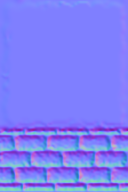
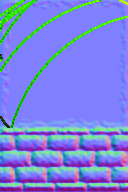
lightning prototype (using normal maps)

diff --git a/Classes/gamescene.cpp b/Classes/gamescene.cpp
@@ -102,6 +102,32 @@ GameScene::init()
     m_pDuelMode->Show(false);
     m_pGameHUD->addChild(m_pDuelMode);
     
+        // light
+    m_pLight = LightEffect::create();
+    m_pLight->retain();
+    m_pLight->setLightPos(m_pLocalPlayer->getPosition3D());
+    m_pLight->setAmbientLightColor(Color3B(25,25,25));
+    m_pLight->setLightCutoffRadius(200);
+    m_pLight->setLightHalfRadius(1.0);
+    m_pLight->setBrightness(5.0);
+    
+        // apply light to map
+    for(auto i = 0; i < m_oGameMap.GetMatrix().size(); ++i)
+    {
+        for(auto j = 0; j < m_oGameMap[i].size(); ++j)
+        {
+            auto& block = m_oGameMap[i][j];
+            if(block->GetType() == MapBlock::Type::WALL)
+            {
+                block->setEffect(m_pLight, "res/wall_1_n.png");
+            }
+            else if(block->GetType() == MapBlock::Type::NOBLOCK)
+            {
+                block->setEffect(m_pLight, "res/floor_n.png");
+            }
+        }
+    }
+    
     auto eventListener = EventListenerKeyboard::create();
     eventListener->onKeyPressed = [this](EventKeyboard::KeyCode keyCode, Event * event)
     {
@@ -352,6 +378,7 @@ GameScene::UpdateView(float delta)
                                  cur_pos.x,
                                  cur_pos.y,
                                  800));
+        m_pLight->setLightPos(m_pLocalPlayer->getPosition3D());
     }
     else if(m_pLocalPlayer->GetState() == Hero::State::SWAMP)
     {
@@ -440,7 +467,8 @@ GameScene::ApplyInputEvents()
             {
                 auto gs_spawn = static_cast<const GameEvent::SVSpawnMonster*>(gs_event->event());
                 
-                auto monster = Monster::create("res/monster.png");
+                auto monster = Monster::create("res/units/monster.png");
+                monster->setEffect(m_pLight, "res/units/monster_n.png");
                 monster->SetUID(gs_spawn->monster_uid());
                 
                 cocos2d::Vec2 log_coords(gs_spawn->x(),
@@ -461,6 +489,7 @@ GameScene::ApplyInputEvents()
                     case Item::Type::KEY:
                     {
                         auto key = Key::create("res/key.png");
+                        key->setEffect(m_pLight, "res/key_n.png");
                         key->SetUID(gs_spawn->item_uid());
                         key->SetCarrierID(0);
                         
@@ -482,6 +511,7 @@ GameScene::ApplyInputEvents()
                     case Item::Type::SWORD:
                     {
                         auto sword = Sword::create("res/sword.png");
+                        sword->setEffect(m_pLight, "res/sword_n.png");
                         sword->SetUID(gs_spawn->item_uid());
                         sword->SetCarrierID(0);
                         

diff --git a/Classes/pregamescene.cpp b/Classes/pregamescene.cpp
@@ -381,7 +381,7 @@ PreGameScene::update(float delta)
             {
                 if(player.eHeroPicked == Hero::Type::AIR_ELEMENTALIST)
                 {
-                    auto air = AirElementalist::create("res/player_down.png");
+                    auto air = AirElementalist::create("res/units/player_down.png");
                     air->SetUID(player.nUID);
                     air->SetName(player.sNickname);
                     air->retain();
@@ -389,7 +389,7 @@ PreGameScene::update(float delta)
                 }
                 else if(player.eHeroPicked == Hero::Type::EARTH_ELEMENTALIST)
                 {
-                    auto earth = EarthElementalist::create("res/player_down.png");
+                    auto earth = EarthElementalist::create("res/units/player_down.png");
                     earth->SetUID(player.nUID);
                     earth->SetName(player.sNickname);
                     earth->retain();
@@ -397,7 +397,7 @@ PreGameScene::update(float delta)
                 }
                 else if(player.eHeroPicked == Hero::Type::FIRE_ELEMENTALIST)
                 {
-                    auto fire = FireElementalist::create("res/player_down.png");
+                    auto fire = FireElementalist::create("res/units/player_down.png");
                     fire->SetUID(player.nUID);
                     fire->SetName(player.sNickname);
                     fire->retain();
@@ -405,7 +405,7 @@ PreGameScene::update(float delta)
                 }
                 else if(player.eHeroPicked == Hero::Type::WATER_ELEMENTALIST)
                 {
-                    auto water = WaterElementalist::create("res/player_down.png");
+                    auto water = WaterElementalist::create("res/units/player_down.png");
                     water->SetUID(player.nUID);
                     water->SetName(player.sNickname);
                     water->retain();

diff --git a/Classes/gamelogic/units/hero.cpp b/Classes/gamelogic/units/hero.cpp
@@ -175,22 +175,22 @@ Hero::Turn(Hero::Orientation orient)
     {
         case Orientation::UP:
         {
-            this->setTexture("res/player_up.png");
+            this->setTexture("res/units/player_up.png");
             break;
         }
         case Orientation::DOWN:
         {
-            this->setTexture("res/player_down.png");
+            this->setTexture("res/units/player_down.png");
             break;
         }
         case Orientation::LEFT:
         {
-            this->setTexture("res/player_left.png");
+            this->setTexture("res/units/player_left.png");
             break;
         }
         case Orientation::RIGHT:
         {
-            this->setTexture("res/player_right.png");
+            this->setTexture("res/units/player_right.png");
             break;
         }
     }

diff --git a/Classes/gamescene.hpp b/Classes/gamescene.hpp
@@ -11,13 +11,13 @@
 
 #include "cocos2d.h"
 #include "gamelogic/gamemap.hpp"
-#include "gamelogic/units/hero.hpp"
-#include "gamelogic/units/monster.hpp"
+#include "gamelogic/units/units_inc.hpp"
 #include "gamelogic/item.hpp"
 #include "gamelogic/construction.hpp"
 #include "gamehud.hpp"
 #include "swamp_combo.hpp"
 #include "duel_mode.hpp"
+#include "LightEffect.h"
 
 #include "gsnet_generated.h"
 
@@ -62,6 +62,9 @@ private:
     std::queue<std::vector<char>> m_aOutEvents;
     flatbuffers::FlatBufferBuilder builder;
     uint16_t nSuccCount = 0;
+    
+        // do be deleted
+    LightEffect *               m_pLight;
 };
 
 #endif /* gamescene_hpp */

diff --git a/Classes/LightEffect.cpp b/Classes/LightEffect.cpp
@@ -47,7 +47,7 @@ LightEffect* LightEffect::create()
 
 bool LightEffect::init()
 {
-    if (initGLProgramState("pointlight.frag"))
+    if (initGLProgramState("res/pointlight.frag"))
     {
         setLightColor(cocos2d::Color3B::WHITE);
         setAmbientLightColor(cocos2d::Color3B(127,127,127));
